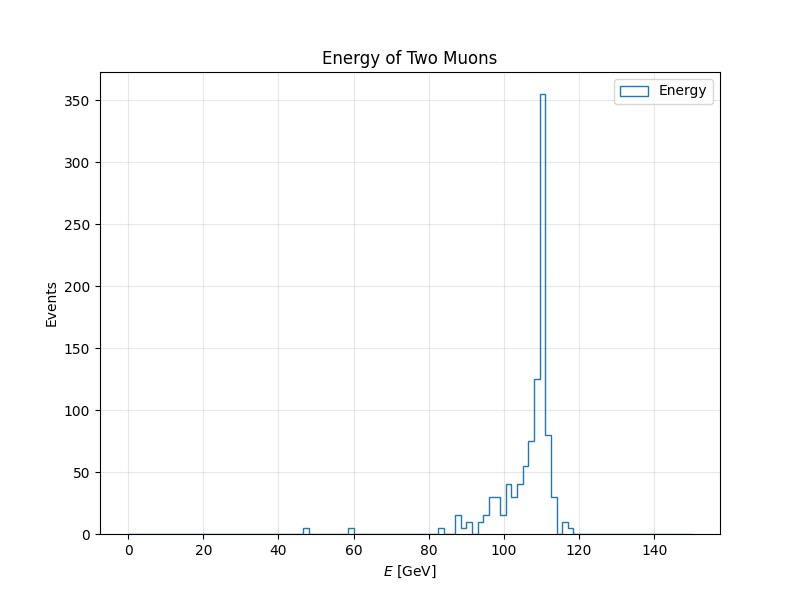
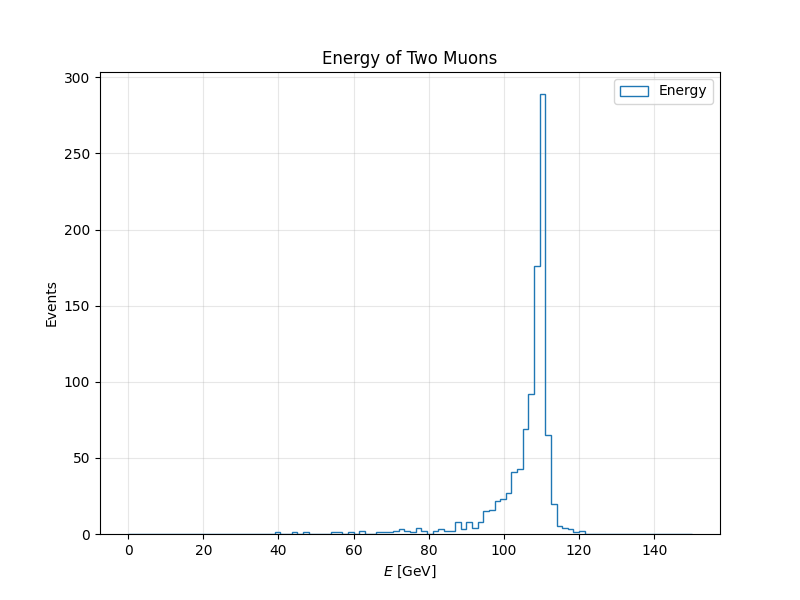
Ran the code with inputs 2 to 12

diff --git a/example/options/run_example.py b/example/options/run_example.py
@@ -61,11 +61,12 @@ def root_file_paths(
 
 
 # The ROOT files sit in “…/tomaz-example/input_files”
-parent_dir = "../../input_files"
+parent_dir = "../input_files"
 
 # Get the 12 file paths
-file_list = root_file_paths(parent_dir, start=1, stop=2)
+file_list = root_file_paths(parent_dir, start=2, stop=12)
 
+#For some reason running 1 and 2 crashes but 1 by itself worked
 # ----------------------------------------------------------------------
 # key4hep code
 # ----------------------------------------------------------------------
